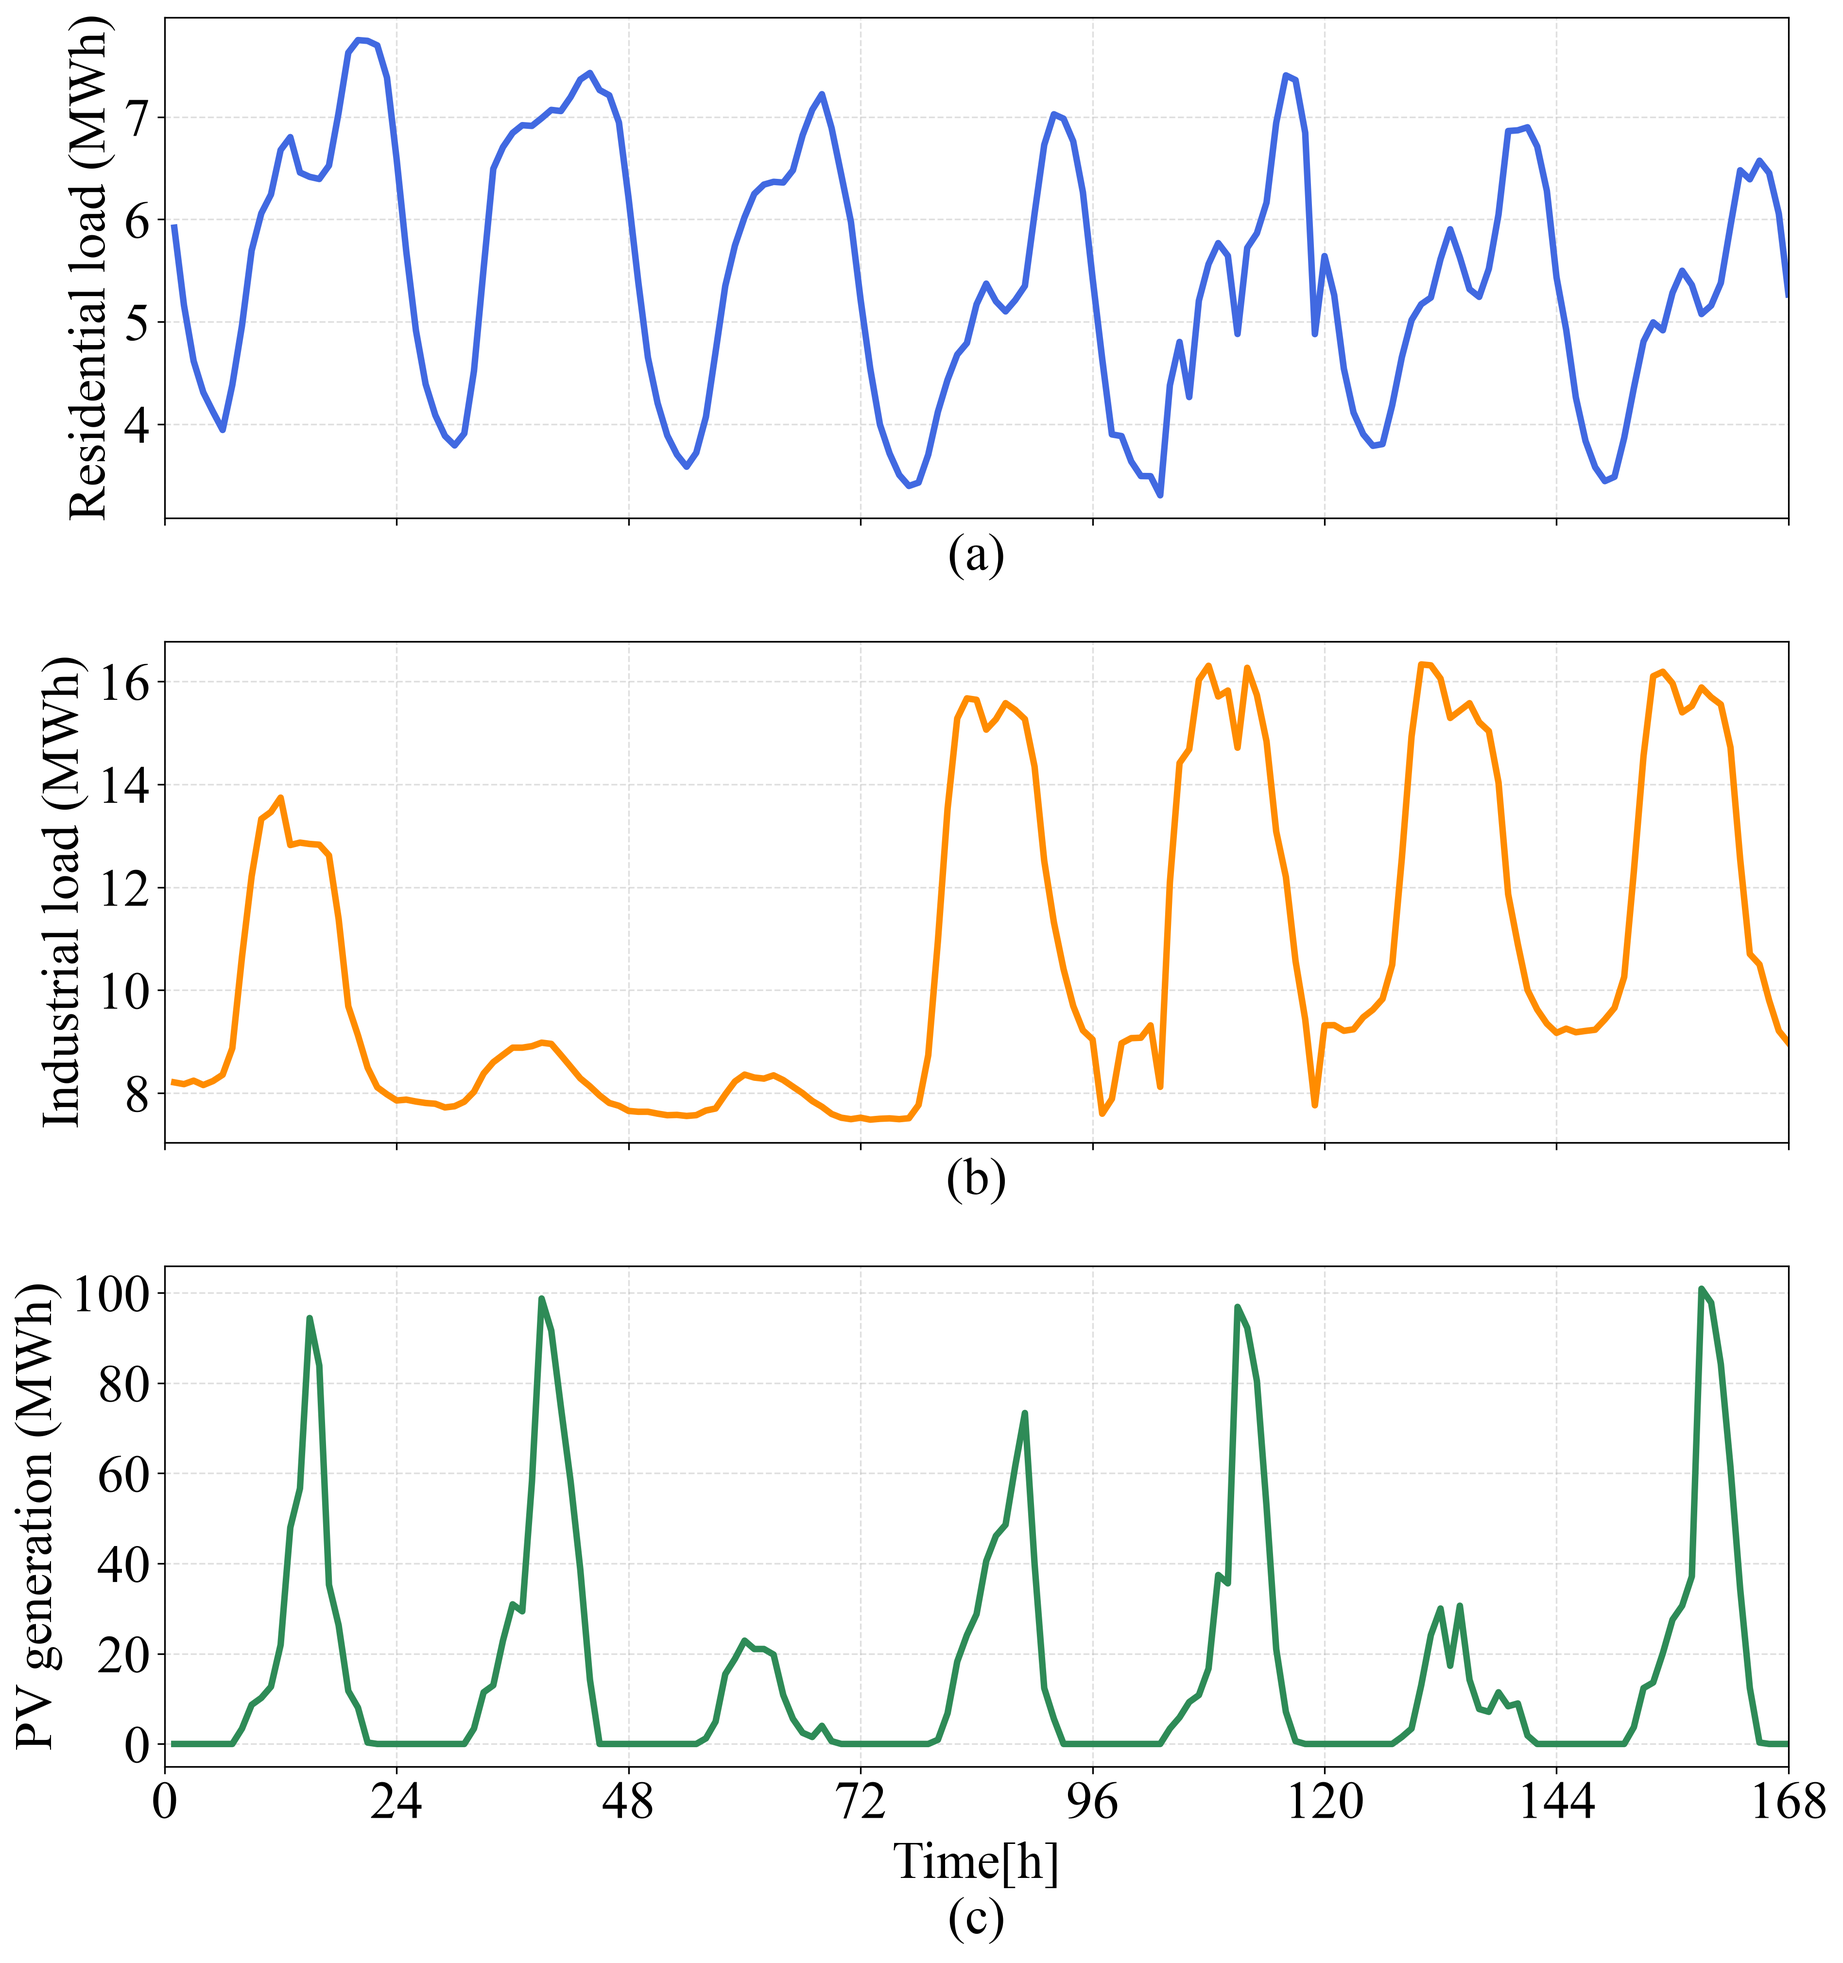
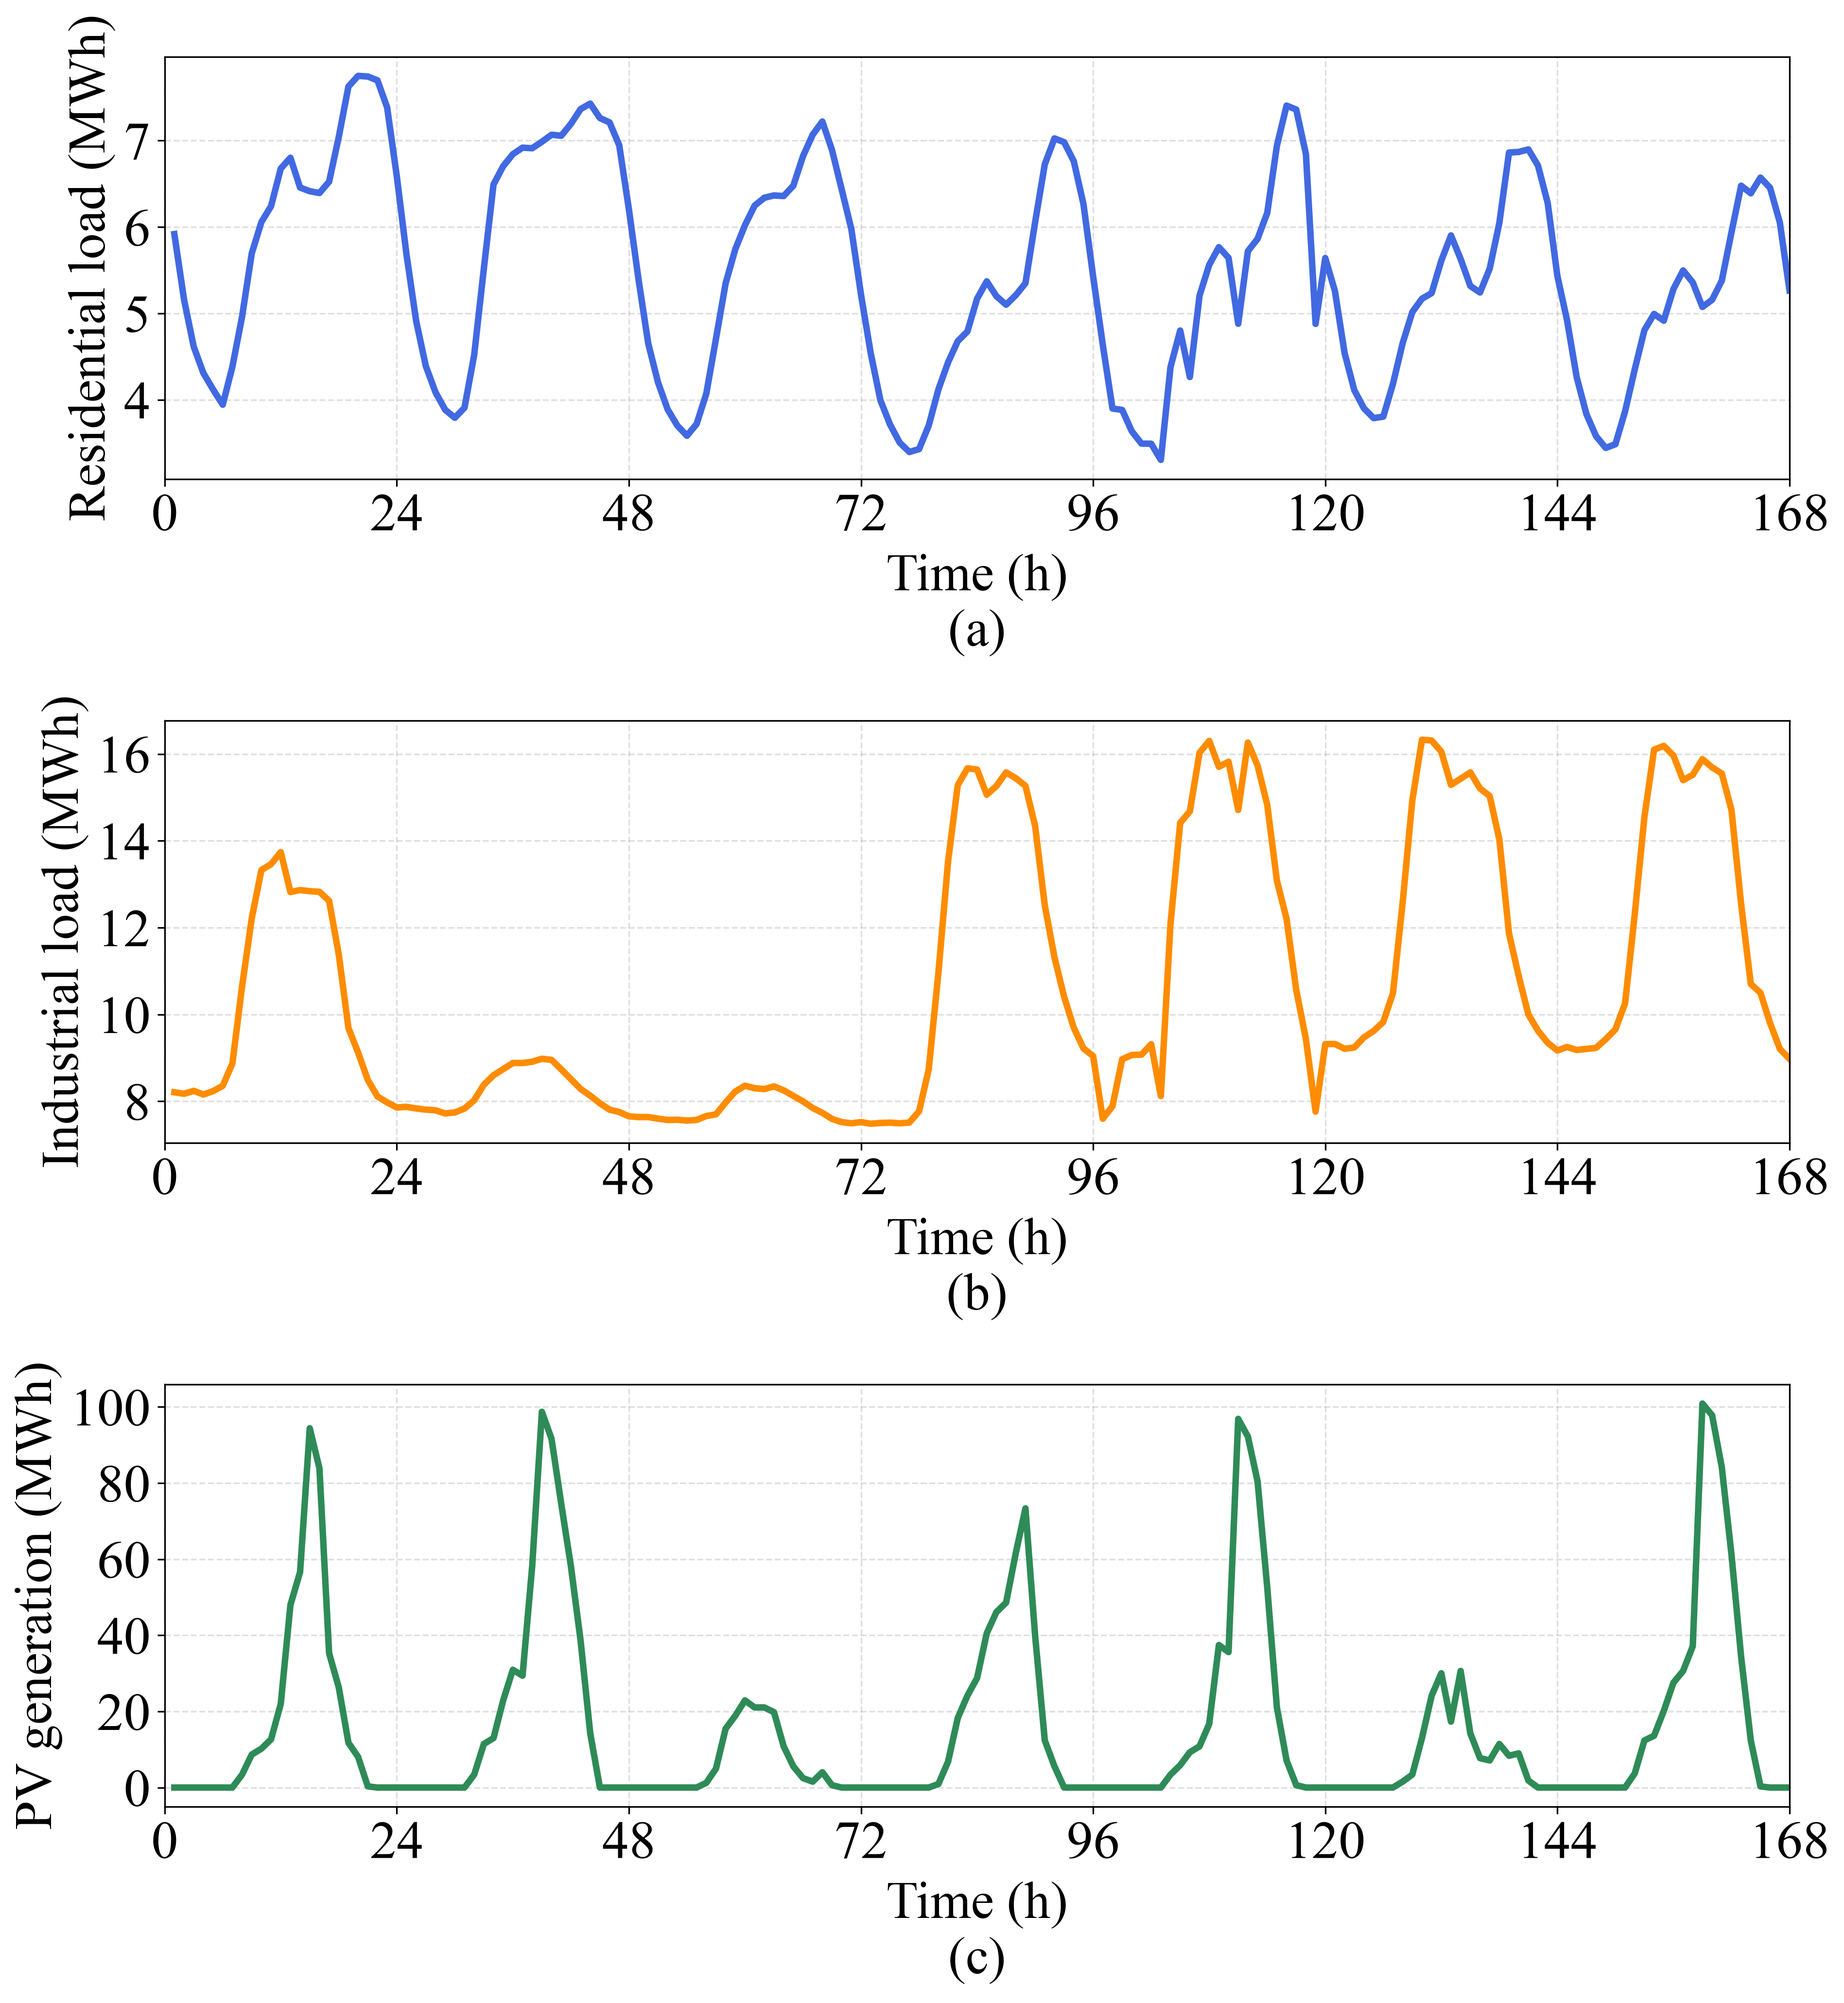
Show time axes on all Figure 3 panels

diff --git a/load profile.py b/load profile.py
@@ -123,17 +123,15 @@ def plot_load_profiles(df):
         label="PV generation",
     )
     axes[2].set_ylabel("PV generation (MWh)")
-    axes[2].set_xlabel("Time[h]\n(c)")
     axes[2].grid(True, linestyle="--", alpha=0.4)
 
-    axes[0].set_xlabel("(a)")
-    axes[1].set_xlabel("(b)")
-
     # Font and tick formatting
-    for ax in axes:
+    for ax, letter in zip(axes, "abc", strict=True):
         ax.set_xlim(0, 168)
         ax.set_xticks(range(0, 169, 24))
         ax.tick_params(axis="both", labelsize=FONT_TICK)
+        ax.tick_params(axis="x", labelbottom=True)
+        ax.set_xlabel(f"Time (h)\n({letter})")
         ax.yaxis.set_major_locator(MaxNLocator(nbins=6))
 
     scale_figure_text(fig, 0.8)
